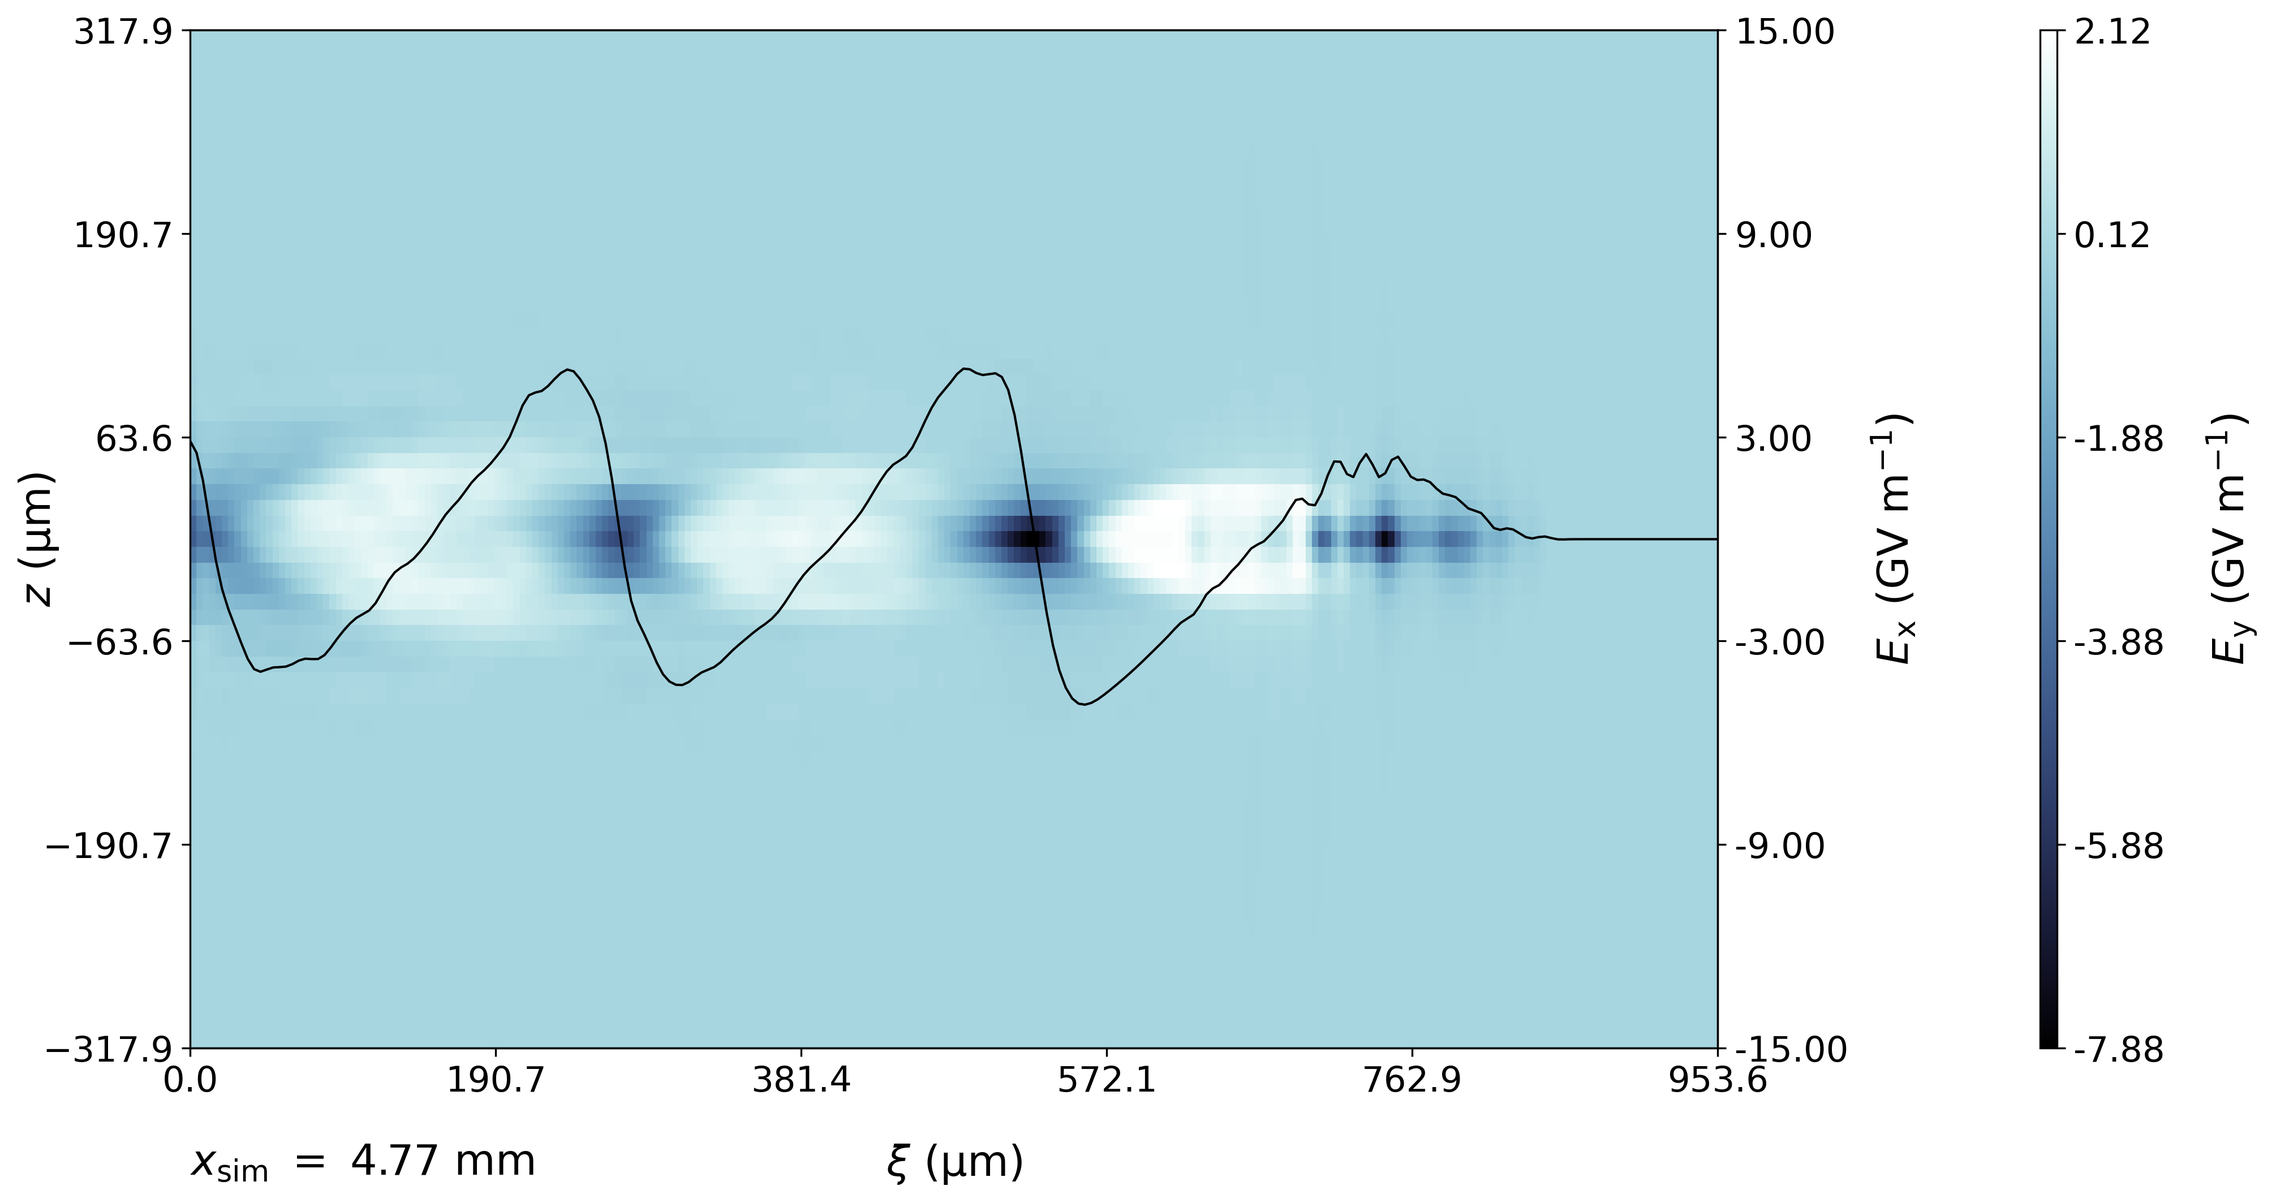
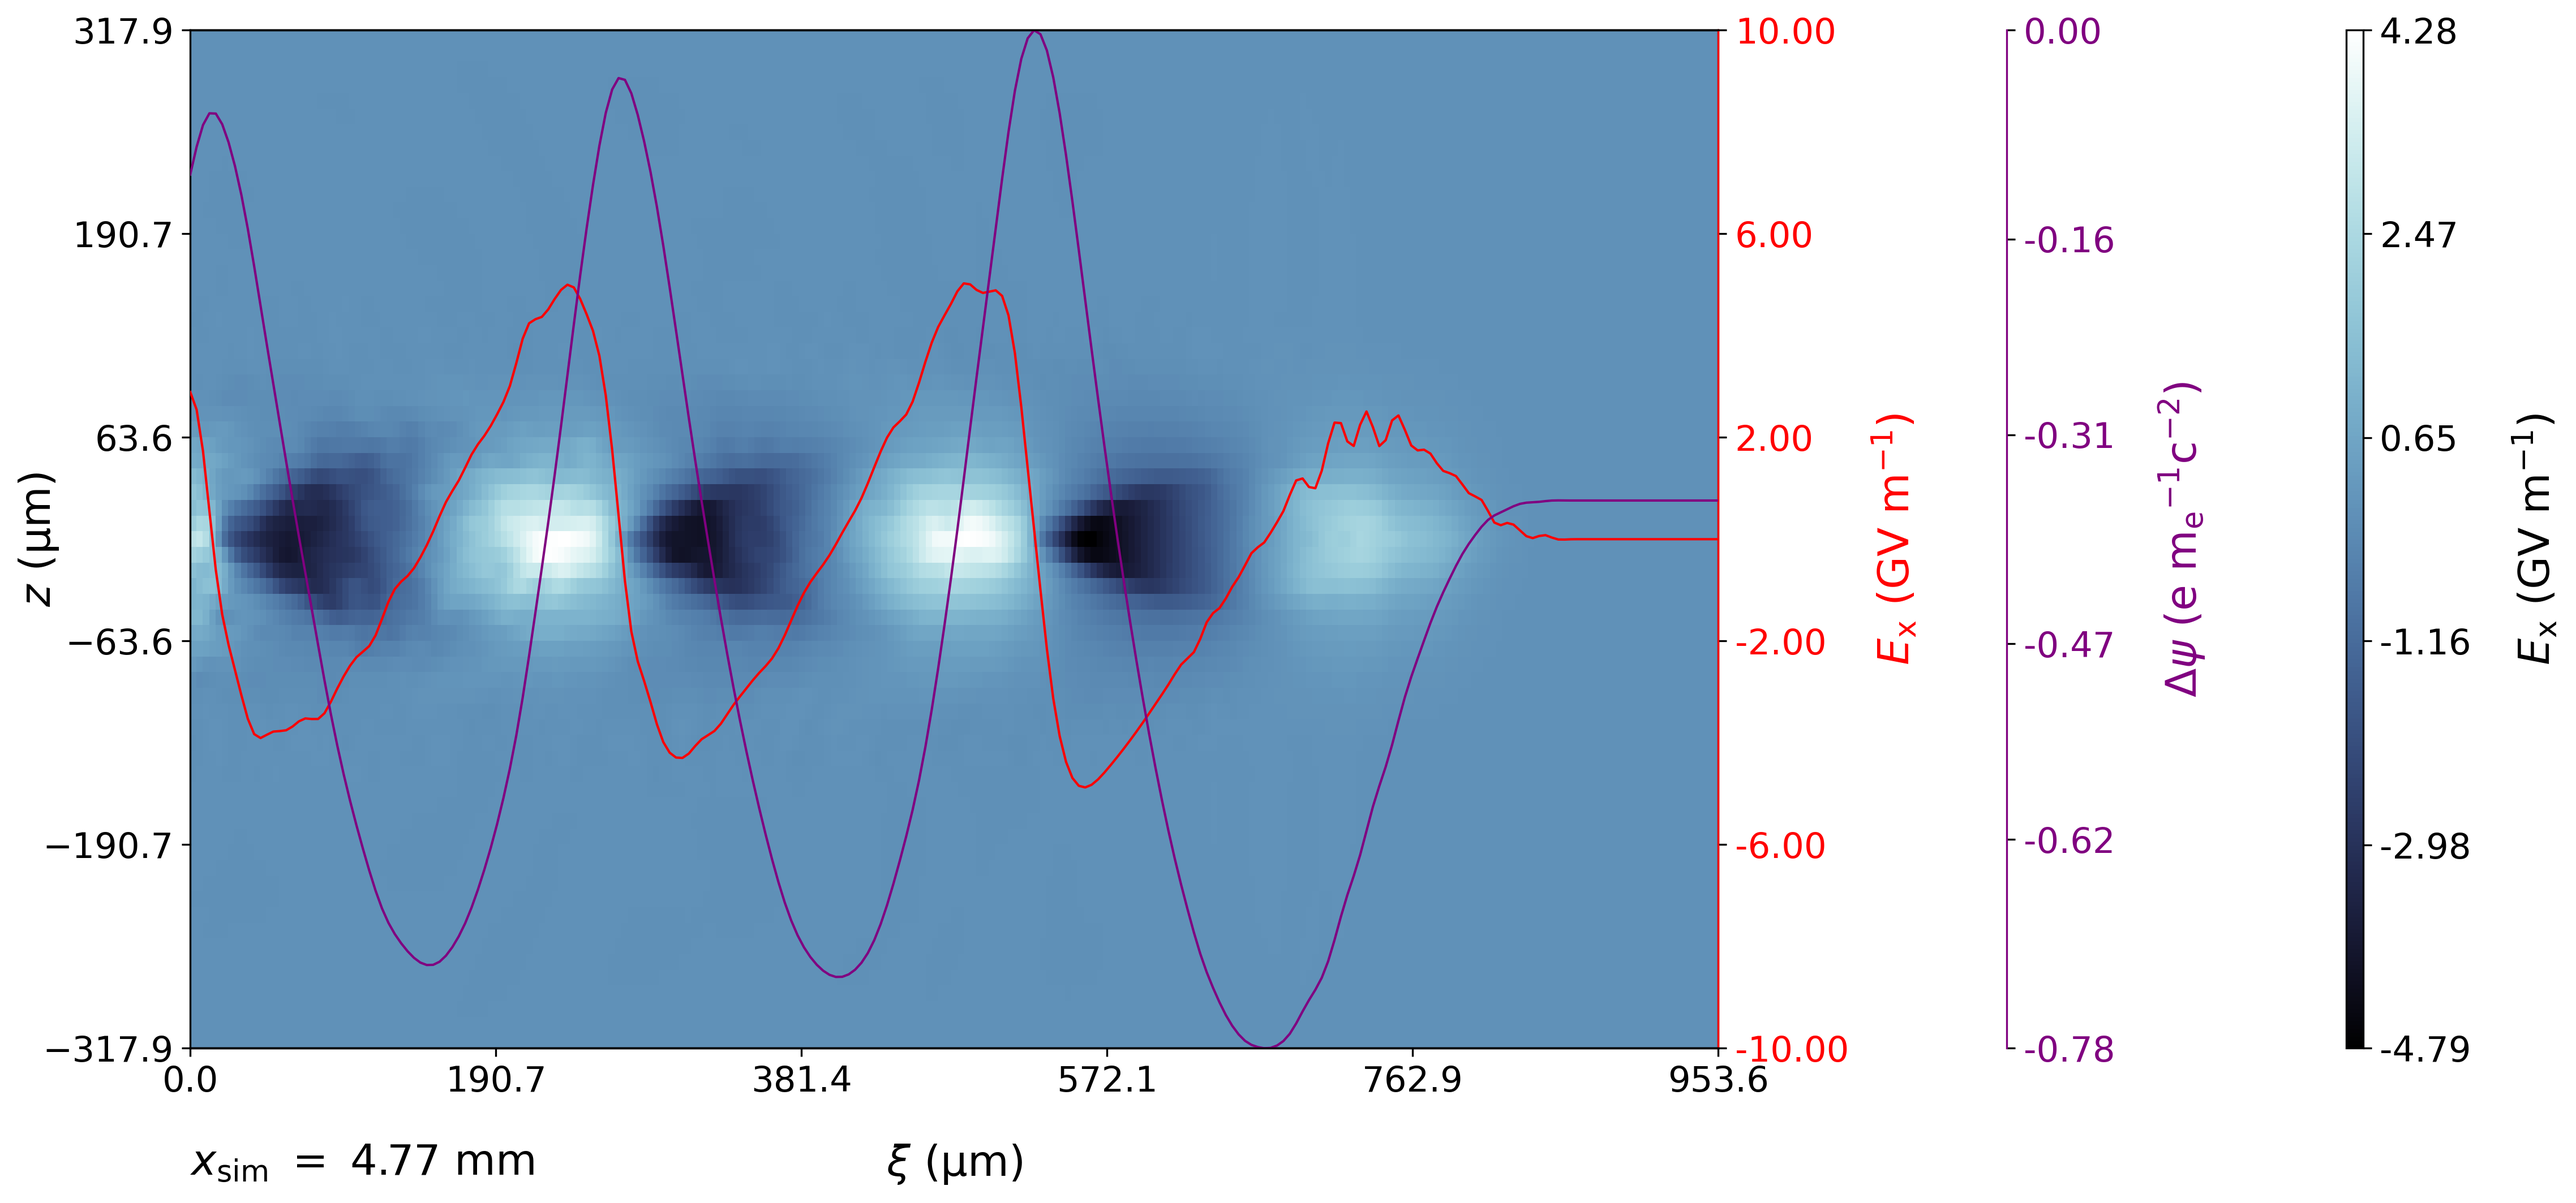
enable plotting of trapping potential
somewhat dirty implementation of trapping potentials.
a new field type can be used together with a dummy field to generate
lineouts of the trapping potential.
updated example included.

diff --git a/plotFigures_potential.py b/plotFigures_potential.py
@@ -28,79 +28,24 @@ picViz = picVIZ(pathToData, dumpnumbers, isHeadless=0)
 Efieldraw = "EFieldAcc"
 
 # add electric field and electric field lineout
-accField_1  = picViz.add_field(Efieldraw, component = 1, colormap="ch_blue", plot_data=1, export =0)
-accField_1.addLine(component= 0, axis="x", x_range=[0,1000], z_range=[-0.2,0.2], y_range =[-0.2,0.2], color ="black", invert_axis= 0, tick_min=-15, tick_max=15, export = 0)
+accField  = picViz.add_field(Efieldraw, component = 0, colormap="ch_blue", plot_data=1, export =0, z_order = None)
 
-# add central differences (i.e. "derivative") of electric field lineout (from front to back of the box)
-accField_2 = picViz.add_field(Efieldraw, component = 1, colormap="ch_blue", plot_data=1, export =0)
-accField_2.addLine(component= 0, axis="x", x_range=[0,1000], z_range=[-0.2,0.2], y_range =[-0.2,0.2], color ="orange", invert_axis= 0, export = 0, calculus = "differentiate")
+accField.addLine(component= 0, axis="x", x_range=[0,1000], y_range=[-0.2,0.2], z_range =[-0.2,0.2], operation = "mean", tick_min = -10., tick_max = 10., invert_axis = 0, show_axis = 1, color = "red", plot_data = 1)
 
-# add cumulative sum (i.e. "rolling total") of electric field lineout (from front to back of the box)
-accField_3 = picViz.add_field(Efieldraw, component = 1, colormap="ch_blue", plot_data=1, export =0)
-accField_3.addLine(component= 0, axis="x", x_range=[0,1000], z_range=[-0.2,0.2], y_range =[-0.2,0.2], color ="green", invert_axis= 0, export = 0, calculus = "cumsum")
-
-# add cummulative trapezoidal aread (i.e. "integral") of electric field lineout (from front to back of the box)
-accField_4 = picViz.add_field(Efieldraw, component = 1, colormap="ch_blue", plot_data=1, export =0)
-accField_4.addLine(component= 0, axis="x", x_range=[0,1000], z_range=[-0.2,0.2], y_range =[-0.2,0.2], color ="blue", invert_axis= 0, export = 0, calculus = "integrate")
-
-# normalise integral of electric field lineout (i.e. generate trapping potential)
-accField_5 = picViz.add_field(Efieldraw, component = 1, colormap="ch_blue", plot_data=1, export =0)
-accField_5.addLine(component= 0, axis="x", x_range=[0,1000], z_range=[-0.2,0.2], y_range =[-0.2,0.2], color ="navy", invert_axis= 0, export = 0, calculus = "integrate", normalize = -1./511.7066619)
-
-# zero-gauge trapping potential (e.g. set the maximum value to zero, such that -1 equals traoping)
-accField_6 = picViz.add_field(Efieldraw, component = 1, colormap="ch_blue", plot_data=1, export =0)
-accField_6.addLine(component= 0, axis="x", x_range=[0,1000], z_range=[-0.2,0.2], y_range =[-0.2,0.2], color ="purple", invert_axis= 0, export = 0, calculus = "integrate", normalize = -1./511.7066619, gauge = "max")
-
-
-
-# generate plots
-plot_field              = picViz.add_2D_plot(fields = [accField_1],   particles = [], fig_size=[6,6], plane ="xz",  save_fig=1, make_fig =1, show_sim_progress="x", dpi = 300)
-plot_derivative         = picViz.add_2D_plot(fields = [accField_2],   particles = [], fig_size=[6,6], plane ="xz",  save_fig=1, make_fig =1, show_sim_progress="x", dpi = 300)
-plot_sum                = picViz.add_2D_plot(fields = [accField_3],   particles = [], fig_size=[6,6], plane ="xz",  save_fig=1, make_fig =1, show_sim_progress="x", dpi = 300)
-plot_integral           = picViz.add_2D_plot(fields = [accField_4],   particles = [], fig_size=[6,6], plane ="xz",  save_fig=1, make_fig =1, show_sim_progress="x", dpi = 300)
-plot_potential          = picViz.add_2D_plot(fields = [accField_5],   particles = [], fig_size=[6,6], plane ="xz",  save_fig=1, make_fig =1, show_sim_progress="x", dpi = 300)
-plot_potential_gauged   = picViz.add_2D_plot(fields = [accField_6],   particles = [], fig_size=[6,6], plane ="xz",  save_fig=1, make_fig =1, show_sim_progress="x", dpi = 300)
-
-# generate multiplot
-plotall = picViz.add_multi_plot(plot_list = [plot_field, plot_derivative, plot_sum, plot_integral, plot_potential, plot_potential_gauged], grid = [2,2,2], fig_height=18)
-
-
-
-
-
-
-# "dirty" calculation of trapping potential via cumulative sum:
-# (using "cumsum to calculate the potential does not require scipy, but is less accurate than "integrate", particularly at low resolution)
-
-accField_alt  = picViz.add_field(Efieldraw, component = 1, colormap="ch_blue", plot_data=1, export =0)
-
-norm_DX     = 3.973196854370783e-06         # cell size in x (DX)
-norm_GeV    = 1.e9          # translate GV --> V
-norm_emass  = 511706.6619   # electron mass in eV
-# calculate normalisation factor for trapping potential (just a showcase of dependencies, of course can be done more elegantly)
-norm = norm_DX * norm_GeV / norm_emass
-# add the potential lineout
-accField_alt.addLine(component= 0, axis="x", x_range=[0,1000], z_range=[-0.2,0.2], y_range =[-0.2,0.2], color ="red", invert_axis= 0, export = 0, calculus = "cumsum", normalize = -1.*norm, gauge = "max")
-
-plot_dirty_potential    = picViz.add_2D_plot(fields = [accField_alt], particles = [], fig_size=[6,6], plane ="xz",  save_fig=1, make_fig =1, show_sim_progress="x", dpi = 300)
-
-
-
-
-# accuracy comparison:
     
-accField_integrate = picViz.add_field(Efieldraw, component = 1, colormap="ch_blue", plot_data=1, export =0)
-accField_integrate.addLine(component= 0, axis="x", x_range=[0,1000], z_range=[-0.2,0.2], y_range =[-0.2,0.2], color ="purple", invert_axis= 0, tick_min=-1, tick_max=1, export = 0, calculus = "integrate", normalize = -1./511.7066619, gauge = None)
-accField_integrate.addLine(component= 0, axis="x", x_range=[0,1000], z_range=[-0.2,0.2], y_range =[-0.2,0.2], color ="black",  invert_axis= 0, export = 0)
+# add a copy of the electric field above, manually switching the field type to kind = "dummy_potential", and do not plot the field, only the lineout.
+# this creates a dummy field object that is not plotted, but internally defined in picViz as a new kind of field.
+# this will tell picViz to set the labels of the lineout correctly, and also to use a dedicated axis for the trapping potential
+trapping_potential = picViz.add_field(Efieldraw, kind = "dummy_potential", plot_data = 0)
+trapping_potential.addLine(component= 0, axis="x", x_range=[0,1000], z_range=[-0.2,0.2], y_range =[-0.2,0.2], show_range = 0, \
+                        operation = "mean", tick_min = None, tick_max = None, invert_axis = 0, show_axis = 1, color = "purple", force_color = 1, \
+                        z_order = None, export = 0, plot_data = 1, \
+                        # the calculation of the trapping potential happens here (integrate, normalise, gauge):
+                        calculus = "integrate", normalize = -1./511.7066619, gauge = "max")    
 
-accField_cumsum = picViz.add_field(Efieldraw, component = 1, colormap="ch_blue", plot_data=1, export =0)
-accField_cumsum.addLine(component= 0, axis="x", x_range=[0,1000], z_range=[-0.2,0.2], y_range =[-0.2,0.2], color ="red", invert_axis= 0, export = 0, tick_min=-1, tick_max=1, calculus = "cumsum", normalize = -1.*norm, gauge = None)
-accField_cumsum.addLine(component= 0, axis="x", x_range=[0,1000], z_range=[-0.2,0.2], y_range =[-0.2,0.2], color ="black",  invert_axis= 0, export = 0)
 
-plot_potential_integrate   = picViz.add_2D_plot(fields = [accField_integrate], particles = [], fig_size=[6,6], plane ="xz",  save_fig=1, make_fig =1, show_sim_progress="x", dpi = 300)
-plot_potential_cumsum      = picViz.add_2D_plot(fields = [accField_cumsum],    particles = [], fig_size=[6,6], plane ="xz",  save_fig=1, make_fig =1, show_sim_progress="x", dpi = 300)
-
-potential_compare = picViz.add_multi_plot(plot_list = [plot_potential_integrate, plot_potential_cumsum], grid = [1,1], fig_height=12)
+# plot both field objets
+plot_field   = picViz.add_2D_plot(fields = [accField, trapping_potential],   particles = [], fig_size=[6,6], plane ="xz",  save_fig=1, make_fig =1, show_sim_progress="x", dpi = 300)
 
 ##################################################################################################################
 #                  start code

diff --git a/plotter/plotStyleUtils.py b/plotter/plotStyleUtils.py
@@ -90,6 +90,8 @@ def get_label_from_key(key):
             quantity = "$\mathit{J}$"
         elif quantity == "chargedens":
             return "$\mathit{\\rho}$"
+        elif quantity == "dummy_potential":
+            return "$\mathit{\\Delta\\psi}$"
         
         if comp == "0":
             comp = "$_{\mathrm{x}}$"
@@ -266,6 +268,9 @@ def get_unit_from_component(key):
 
     elif key.find("electric") > -1:
         return "GV m$^{-1}$"
+
+    elif key.find("dummy_potential") > -1:
+        return "e m$_{\mathrm{e}}$$^{\mathrm{-1}}$c$^{\mathrm{-2}}$"
     
     elif key.find("magnetic") > -1:
         return "T"

diff --git a/dataReader/fieldReader.py b/dataReader/fieldReader.py
@@ -121,7 +121,7 @@ def load_field_file_vsim(pathToData, dumpNumber, currentSpecies, fldObj, gridDat
                    
             
             # do unit conversion here
-            if fldObj.kind.lower() == "electric":
+            if fldObj.kind.lower() == "electric" or "dummy_potential":
                 fldObj.fieldMatrix = fldObj.fieldMatrix / 1.0e9
                 
             if fldObj.kind.lower() == "chargedens":
